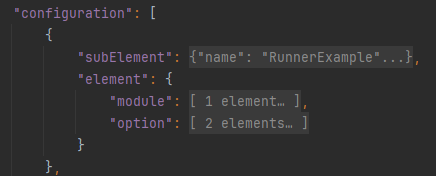
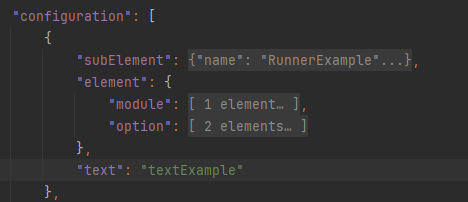
Adding the text element for the nodes

diff --git a/IntellijBuildEnvironementRunners.py b/IntellijBuildEnvironementRunners.py
@@ -17,6 +17,7 @@ _list = "list"
 _name = "name"
 _run_manager = "RunManager"
 _subElement = "subElement"
+_text = "text"
 ### End Python Global Vars
 
 ### Python Functions
@@ -46,6 +47,9 @@ def buildRunnerWithJson(parentElem, json, elemName):
         newElement = buildNewElement(parentElem, elemName, newElement, json[jsonKey], jsonKey)
 
 def buildNewElement(parentElem, elemName, newElement, json, jsonKey):
+    if jsonKey == _text:
+        newElement.text = json
+        return newElement
     if jsonKey == _subElement:
         return buildSubElementWithJson(parentElem, elemName, json)
     if jsonKey == _element:

diff --git a/README.md b/README.md
@@ -40,19 +40,24 @@ For the json file we have a few rules for the setup:
 }
 ```
 
-2. Each node has a subElement and a element:    
-![SubElement and element](node-child.png)
+2. Each node has a subElement, text and a element:    
+![SubElement, Text and element](node-child.png)
 
 - The subElement is the attributes of the node:
     - Json example  
-    ![Child Node Examples](node-sub-element-json.png)
+    ![Child SubElement Json](node-sub-element-json.png)
     - Xml example
-    ![Child Node Examples](node-sub-element-xml.png)
+    ![Child SubElement Xml](node-sub-element-xml.png)
 - The element is where we define the child nodes:
     - Json example   
     ![Child Node Json](node-child-json.png)
     - Xml example  
     ![Child Node Xml](node-child-xml.png)
+- The text is where we define the value for the node:
+    - Json example   
+    ![Child Text Json](node-text-json.png)
+    - Xml example    
+    ![Child Text Xml](node-text-xml.png)
 3. The element will have the nodes required for the runner, example:
     ![Element Nodes](element-nodes.png)
 - In the example we have the module and the option, this will create the xml nodes module and option.
@@ -98,7 +103,8 @@ For the json file we have a few rules for the setup:
                     {
                         "subElement": {
                             "name": "profile"
-                        }
+                        },
+                        "text": "textExample"
                     }
                 ]
             }
@@ -120,7 +126,7 @@ For the json file we have a few rules for the setup:
         </map>
     </option>
     <module name="module name" />
-    <option name="profile" />
+    <option name="profile">textExample</option>
     <method v="2" />
 </configuration>
 ```
